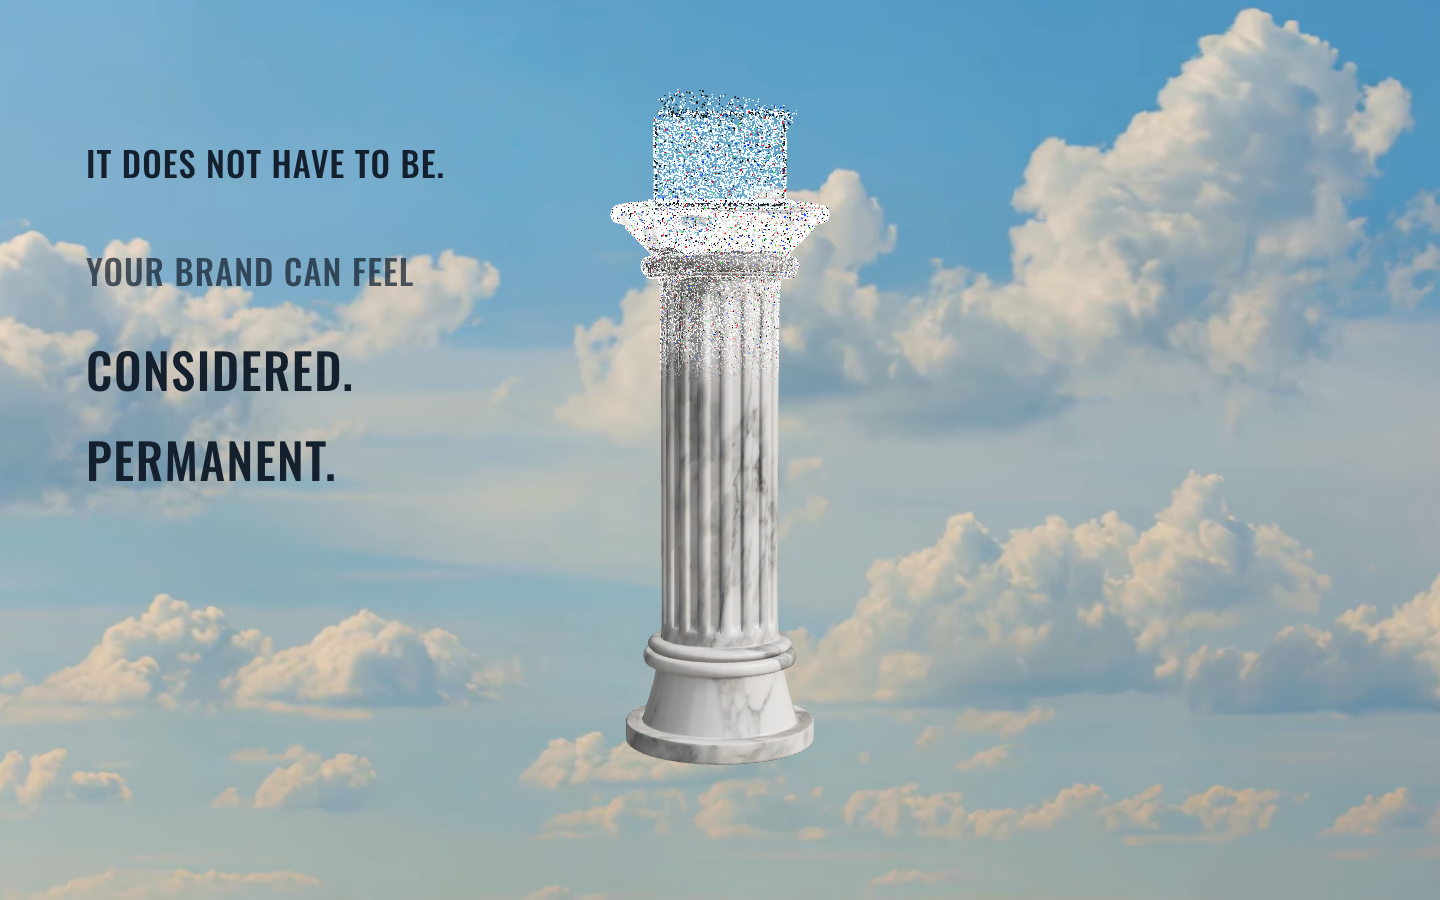
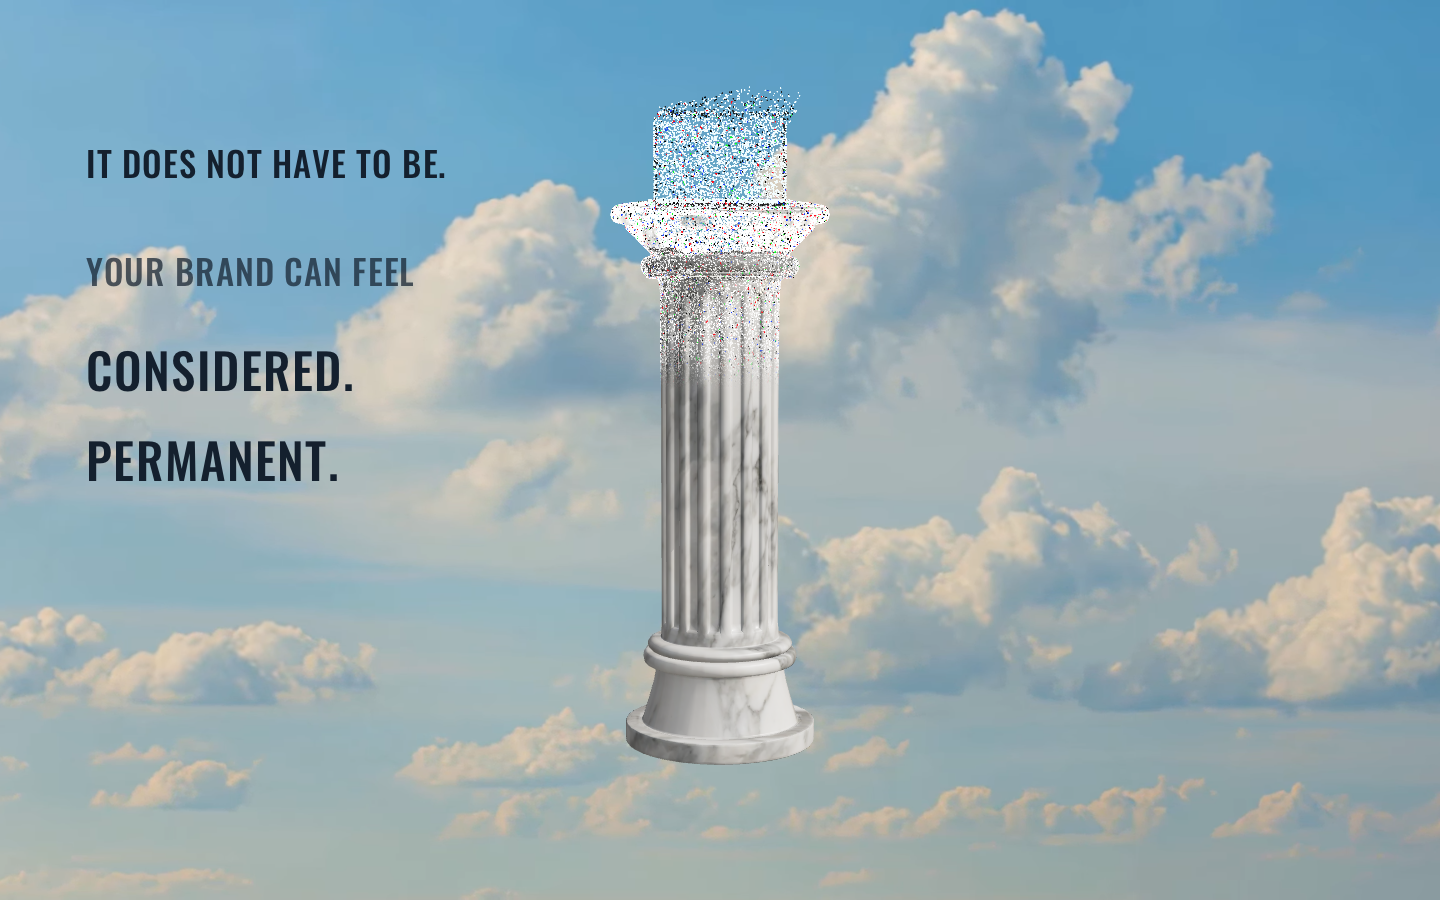
Hero lines type themselves in: letters fly in from the right, sharpening as they land, driven by scroll
Claude-Session: https://claude.ai/code/session_01NAdPXLUXCGhh82qBsMYyAh

diff --git a/src/hero/Copy.tsx b/src/hero/Copy.tsx
@@ -1,7 +1,7 @@
 "use client";
 import { useEffect, useRef } from "react";
 import { LINES, WORDMARK, CTA, SCROLL_HINT } from "./lines";
-import { COPY_WINDOWS, window as win } from "./beats";
+import { COPY_WINDOWS, window as win, ease, remap } from "./beats";
 import { onProgress, progress } from "./progress";
 
 type Layer = "behind" | "front" | "all";
@@ -9,6 +9,7 @@ type Layer = "behind" | "front" | "all";
 /** Copy blocks in DOM over the canvas. Opacity is a function of p, applied to style, no React state. */
 export function Copy({ isStatic, layer = "all" }: { isStatic: boolean; layer?: Layer }) {
   const refs = useRef<Record<string, HTMLElement | null>>({});
+  const letterRefs = useRef<Record<string, (HTMLElement | null)[]>>({});
 
   useEffect(() => {
     if (isStatic) return;
@@ -19,7 +20,24 @@ export function Copy({ isStatic, layer = "all" }: { isStatic: boolean; layer?: L
         if (!el) continue;
         let o = 0;
         const line = LINES.find((l) => l.key === key);
-        if (line) o = win(p, line.in[0], line.in[1], line.out[0], line.out[1]);
+        if (line) {
+          // the line as a whole only fades on the way out; on the way in the letters type themselves
+          const exit = 1 - ease.smooth(remap(p, line.out[0], line.out[1]));
+          const typed = remap(p, line.in[0], line.in[1]);
+          o = typed > 0 ? exit : 0;
+          const letters = letterRefs.current[key] ?? [];
+          const n = letters.length;
+          // each letter arrives over a short run of the type head, sliding in from the right and sharpening
+          const head = typed * (n + 3);
+          for (let i = 0; i < n; i++) {
+            const k = Math.min(1, Math.max(0, (head - i) / 3));
+            const el2 = letters[i];
+            if (!el2) continue;
+            el2.style.opacity = k.toFixed(3);
+            el2.style.transform = k >= 1 ? "" : `translate(${((1 - k) * 0.6).toFixed(3)}em, ${((1 - k) * -0.25).toFixed(3)}em) rotate(${((1 - k) * 6).toFixed(2)}deg)`;
+            el2.style.filter = k >= 1 ? "" : `blur(${((1 - k) * 4).toFixed(2)}px)`;
+          }
+        }
         else if (key === "headline1" || key === "headline1-front") o = COPY_WINDOWS.headline1(p);
         else if (key === "cta") o = COPY_WINDOWS.cta(p, q);
         else if (key === "scrollHint") o = COPY_WINDOWS.scrollHint(p);
@@ -60,11 +78,27 @@ export function Copy({ isStatic, layer = "all" }: { isStatic: boolean; layer?: L
     <div className={isStatic ? "hero__copy-stack" : "hero__layer hero__layer--front"}>
       {layer === "all" && wordmark}
       {layer === "front" && different}
-      {LINES.map((l) => (
-        <p key={l.key} className={`copy copy--line ${l.place.split(" ").map((c) => `copy--${c}`).join(" ")}`} ref={set(l.key)}>
-          {l.text}
-        </p>
-      ))}
+      {LINES.map((l) => {
+        letterRefs.current[l.key] = letterRefs.current[l.key] ?? [];
+        let idx = 0;
+        return (
+          <p key={l.key} className={`copy copy--line ${l.place.split(" ").map((c) => `copy--${c}`).join(" ")}`} ref={set(l.key)} aria-label={l.text.replace(/\n/g, " ")}>
+            {l.text.split("\n").map((row, r) => (
+              <span className="row" key={r} aria-hidden="true">
+                {row.split(" ").map((wordText, w) => (
+                  <span className="w" key={w}>
+                    {Array.from(wordText).map((ch) => {
+                      const i = idx++;
+                      return <span className="l" key={i} ref={(el) => { letterRefs.current[l.key][i] = el; }}>{ch}</span>;
+                    })}
+                    {w < row.split(" ").length - 1 ? " " : ""}
+                  </span>
+                ))}
+              </span>
+            ))}
+          </p>
+        );
+      })}
       <p className="copy copy--cta" ref={set("cta")}>
         <a className="cta" href="#contact">{CTA}</a>
       </p>

diff --git a/src/app/globals.css b/src/app/globals.css
@@ -274,17 +274,19 @@ body {
   font-size: clamp(var(--step-2), 2.4vw, var(--step-4));
   line-height: 1.12;
   color: var(--ink);
-  white-space: pre-line;
+  white-space: normal;
   width: min(46vw, 34ch);
   --rise: 0;
-  transform: translateY(calc(var(--rise) * 0.6rem));
 }
-.copy--left { left: clamp(1.25rem, 6vw, 6rem); top: 50%; transform: translateY(calc(-50% + var(--rise) * 0.6rem)); }
+.copy--line .row { display: block; }
+.copy--line .w { display: inline-block; white-space: pre; }
+.copy--line .l { display: inline-block; will-change: transform, opacity, filter; }
+.copy--left { left: clamp(1.25rem, 6vw, 6rem); top: 50%; transform: translateY(-50%); }
 .copy--left-a { left: clamp(1.25rem, 6vw, 6rem); top: 42%; }
 .copy--left-b { left: clamp(1.25rem, 6vw, 6rem); top: 52%; color: var(--ink-soft); }
 .copy--top-left { left: clamp(1.25rem, 6vw, 6rem); top: 16%; }
 .copy--tight { width: min(34vw, 26ch); font-size: clamp(var(--step-1), 1.8vw, var(--step-3)); }
-.copy--right { right: clamp(1.25rem, 6vw, 6rem); top: 50%; text-align: right; width: min(46vw, 40ch); transform: translateY(calc(-50% + var(--rise) * 0.6rem)); }
+.copy--right { right: clamp(1.25rem, 6vw, 6rem); top: 50%; text-align: right; width: min(46vw, 40ch); transform: translateY(-50%); }
 .copy--bottom { left: 50%; bottom: 5%; text-align: center; transform: translateX(-50%); width: min(70vw, 52ch); }
 .copy--stack-0 { left: clamp(1.25rem, 6vw, 6rem); top: 16%; }
 .copy--stack-1 { left: clamp(1.25rem, 6vw, 6rem); top: 28%; color: var(--ink-soft); }
